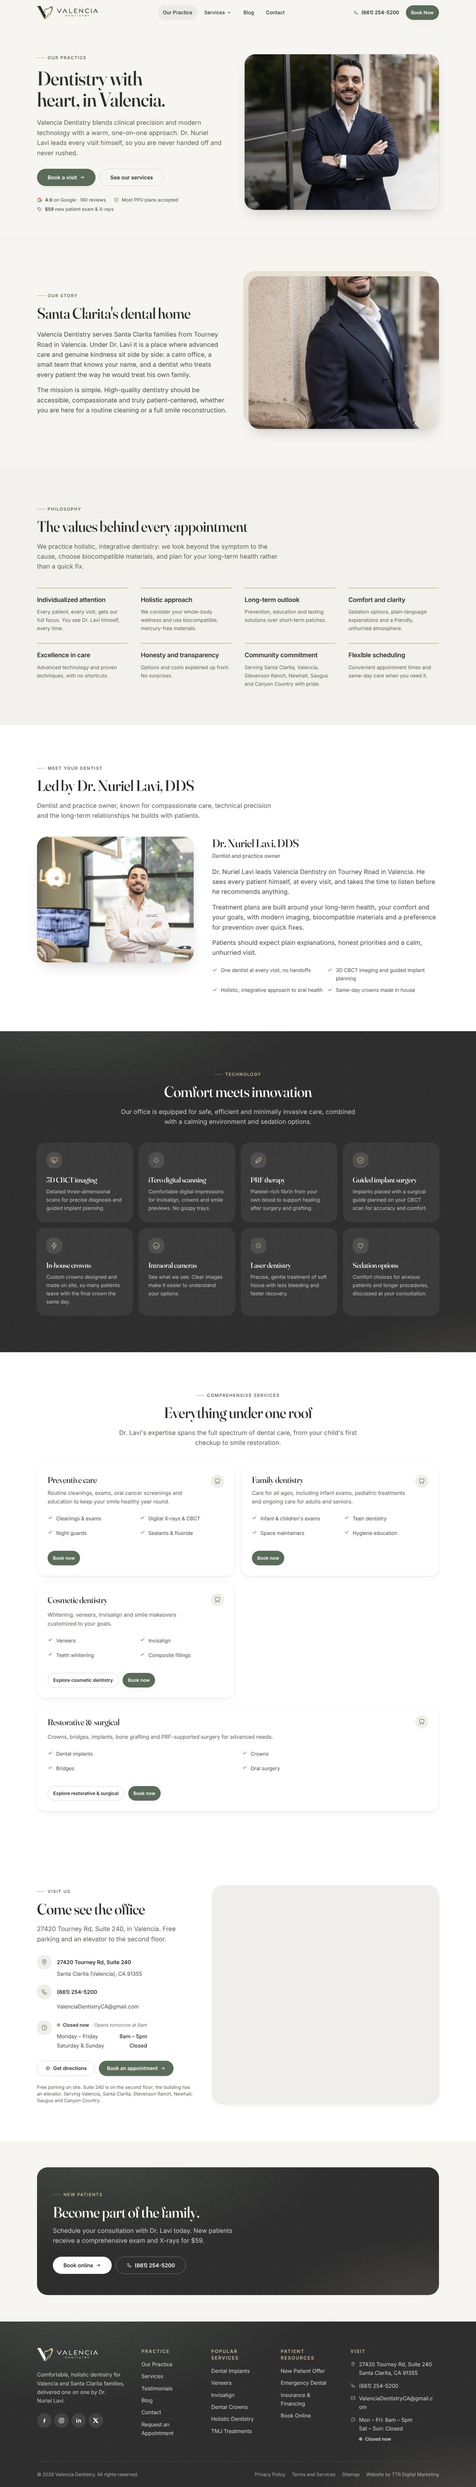
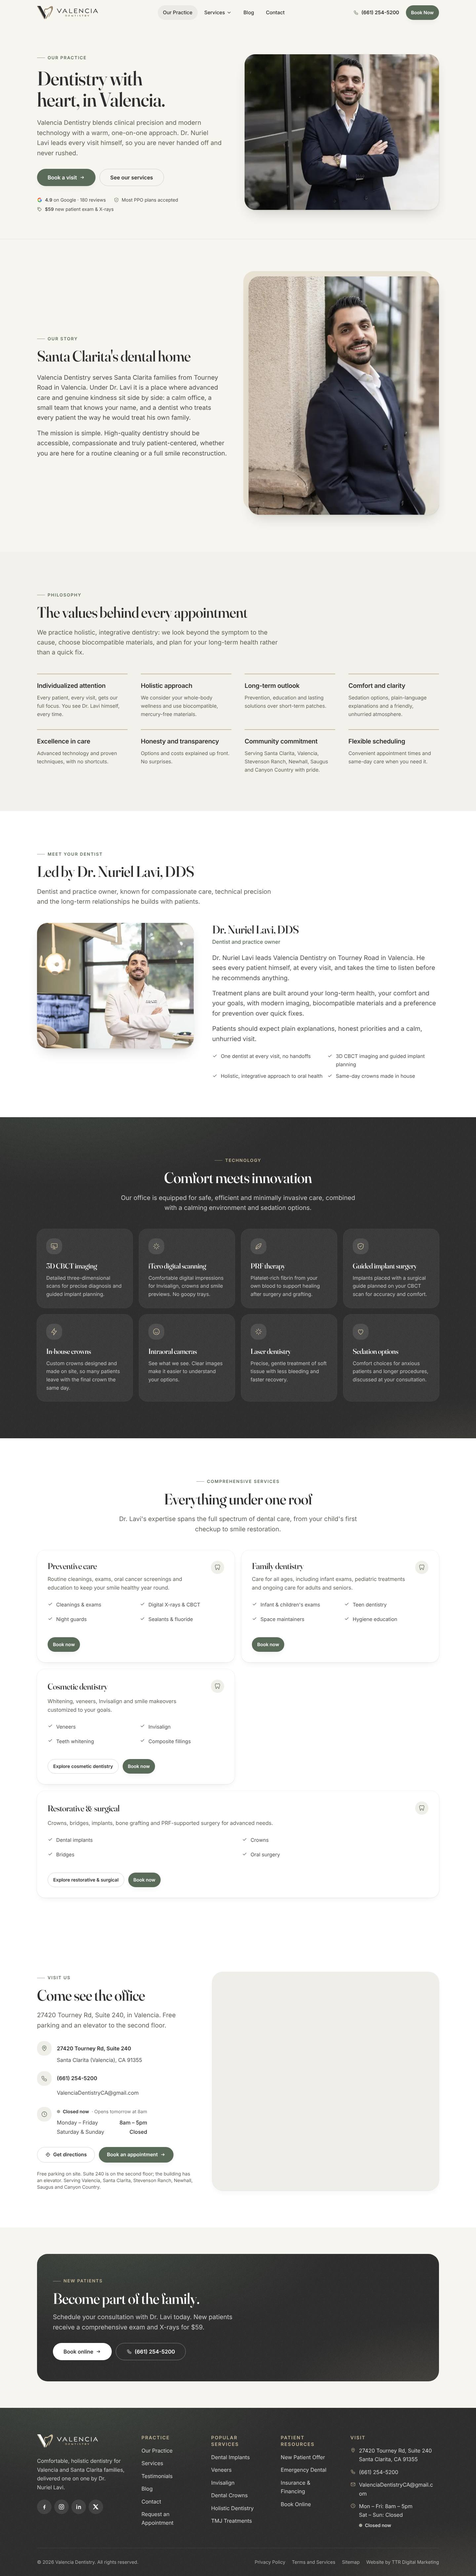
Keep faces in frame: top-anchored photo crops and a portrait frame for portrait photos
Claude-Session: https://claude.ai/code/session_01T2q5z3upfsBPQ3taPvGCH7

diff --git a/components/sections/IntroSplit.tsx b/components/sections/IntroSplit.tsx
@@ -4,9 +4,13 @@ import { Picture } from "@/components/ui/Picture";
 import { Reveal } from "@/components/ui/Reveal";
 import { Container, Section, SectionHeading } from "@/components/ui/Section";
 import { cn } from "@/lib/utils";
+import manifest from "@/lib/generated/images.json";
 
 export function IntroSplit({ s }: { s: IntroSplitSection }) {
   const left = s.imageSide !== "right";
+  // Portrait photos get a portrait frame, anchored to the top so faces are never cropped.
+  const meta = (manifest as Record<string, { width: number; height: number }>)[s.image.src];
+  const portrait = (s.image.height ?? meta?.height ?? 0) > (s.image.width ?? meta?.width ?? 1);
   return (
     <Section>
       <Container>
@@ -15,7 +19,7 @@ export function IntroSplit({ s }: { s: IntroSplitSection }) {
             <div className="relative">
               <div className="absolute -left-4 -top-4 h-full w-full rounded-4xl bg-sand-100" aria-hidden="true" />
               <div className="relative overflow-hidden rounded-4xl shadow-lift">
-                <Picture image={s.image} sizes="(min-width: 1024px) 560px, 100vw" className="aspect-[5/4] w-full object-cover" />
+                <Picture image={s.image} sizes="(min-width: 1024px) 560px, 100vw" className={cn("w-full object-cover object-top", portrait ? "aspect-[4/5]" : "aspect-[5/4]")} />
               </div>
             </div>
           </Reveal>

diff --git a/components/sections/Hero.tsx b/components/sections/Hero.tsx
@@ -67,7 +67,7 @@ export function Hero({ s }: { s: HeroSection }) {
           {s.image && (
             <div className="order-first lg:order-none lg:col-span-5">
               <div className="overflow-hidden rounded-4xl ring-1 ring-white/10 shadow-lift">
-                <Picture image={s.image} priority sizes="(min-width: 1024px) 480px, calc(100vw - 32px)" className="aspect-[4/3] w-full object-cover" />
+                <Picture image={s.image} priority sizes="(min-width: 1024px) 480px, calc(100vw - 32px)" className="aspect-[4/3] w-full object-cover object-top" />
               </div>
             </div>
           )}
@@ -94,7 +94,7 @@ export function Hero({ s }: { s: HeroSection }) {
         {s.image && (
           <div className="order-first lg:order-none lg:col-span-6">
             <div className="overflow-hidden rounded-4xl shadow-lift ring-1 ring-ink-900/5">
-              <Picture image={s.image} priority sizes="(min-width: 1024px) 600px, calc(100vw - 32px)" className="aspect-[5/4] w-full object-cover" />
+              <Picture image={s.image} priority sizes="(min-width: 1024px) 600px, calc(100vw - 32px)" className="aspect-[5/4] w-full object-cover object-top" />
             </div>
           </div>
         )}

diff --git a/components/sections/IdealHome.tsx b/components/sections/IdealHome.tsx
@@ -27,7 +27,7 @@ export function PhotoCards({ s }: { s: PhotoCardsSection }) {
           {s.cards.map((c, i) => (
             <Reveal as="li" key={c.title} delay={i * 80} className="card card-hover overflow-hidden">
               <div className="relative aspect-[4/3] bg-greige-50">
-                <Picture image={c.image} fill sizes="(min-width: 768px) 33vw, 100vw" className="object-cover" />
+                <Picture image={c.image} fill sizes="(min-width: 768px) 33vw, 100vw" className="object-cover object-top" />
               </div>
               <div className="p-6 sm:p-7">
                 <h3 className="text-xl">{c.title}</h3>
